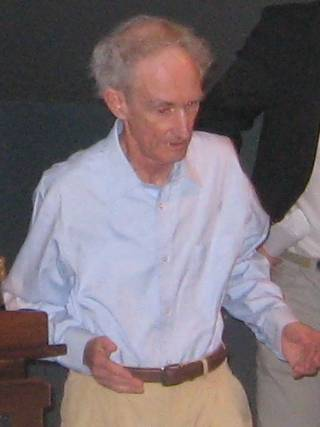
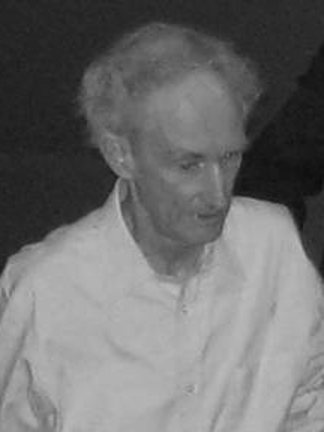
Tighter black-and-white photo of May; keep photo-left layout on narrow screens
Replace the May photo with a head-and-shoulders crop in black and
white to match the Lorenz portrait, shorten its caption, and keep the
caption under the photo with the text to its right at every width on
all three pages.

Claude-Session: https://claude.ai/code/session_01Deuo2bezQBQ6RxutA2KCVW

diff --git a/bifurcation-diagram-explorer.html b/bifurcation-diagram-explorer.html
@@ -86,10 +86,15 @@ td{color:var(--ink-2)}
 .portrait figcaption b{font-weight:700;color:var(--ink)}
 .portrait figcaption span{display:block;margin-top:4px;font-size:11px;color:var(--ink-3)}
 .portrait figcaption a{color:inherit}
-@media (max-width:600px){
-  .intro{grid-template-columns:minmax(0,1fr);gap:16px}
-  .portrait{flex-direction:row;align-items:flex-end;gap:14px}
-  .portrait img{width:120px;flex:none}
+@media (max-width:720px){
+  .intro{grid-template-columns:150px minmax(0,1fr);gap:22px}
+}
+@media (max-width:480px){
+  .intro{display:block}
+  .intro::after{content:"";display:block;clear:both}
+  .portrait{float:left;width:118px;margin:5px 16px 8px 0}
+  .intro-text{display:block}
+  .intro-text > * + *{margin-top:14px}
 }
 @media (max-width:600px){
   .sim{padding:16px}
@@ -119,8 +124,8 @@ td{color:var(--ink-2)}
     <h1>Period doubling and chaos</h1>
     <div class="intro">
       <figure class="portrait">
-        <img src="img/robert-may.jpg" width="320" height="427" alt="Robert May speaking at a public lecture, in a light blue shirt">
-        <figcaption><b>Robert M. May</b> (1936–2020), theoretical ecologist, at a public lecture at Harvard in 2009.<span>Photo: <a href="https://commons.wikimedia.org/wiki/File:BobMayHarvard_(cropped2).jpg">NBeale</a>, <a href="https://creativecommons.org/licenses/by-sa/3.0/">CC BY-SA 3.0</a>, via Wikimedia Commons. Resized.</span></figcaption>
+        <img src="img/robert-may.jpg" width="324" height="432" alt="Black-and-white photo of Robert May in an open-collar shirt">
+        <figcaption><b>Robert M. May</b> (1936–2020), theoretical ecologist.<span>Photo: <a href="https://commons.wikimedia.org/wiki/File:BobMayHarvard_(cropped2).jpg">NBeale</a>, <a href="https://creativecommons.org/licenses/by-sa/3.0/">CC BY-SA 3.0</a>, via Wikimedia Commons. Cropped and converted to black and white.</span></figcaption>
       </figure>
       <div class="intro-text">
         <p class="lede">Robert May's 1976 paper in Nature, “Simple mathematical models with very complicated dynamics”, followed one simple population rule as a single number, r, is turned up. The population first settles, then alternates between two values, then four, then eight, and finally never repeats at all.</p>

diff --git a/logistic-map-explorer.html b/logistic-map-explorer.html
@@ -86,10 +86,15 @@ td{color:var(--ink-2)}
 .portrait figcaption b{font-weight:700;color:var(--ink)}
 .portrait figcaption span{display:block;margin-top:4px;font-size:11px;color:var(--ink-3)}
 .portrait figcaption a{color:inherit}
-@media (max-width:600px){
-  .intro{grid-template-columns:minmax(0,1fr);gap:16px}
-  .portrait{flex-direction:row;align-items:flex-end;gap:14px}
-  .portrait img{width:120px;flex:none}
+@media (max-width:720px){
+  .intro{grid-template-columns:150px minmax(0,1fr);gap:22px}
+}
+@media (max-width:480px){
+  .intro{display:block}
+  .intro::after{content:"";display:block;clear:both}
+  .portrait{float:left;width:118px;margin:5px 16px 8px 0}
+  .intro-text{display:block}
+  .intro-text > * + *{margin-top:14px}
 }
 @media (max-width:600px){
   .sim{padding:16px}
@@ -119,8 +124,8 @@ td{color:var(--ink-2)}
     <h1>The logistic map</h1>
     <div class="intro">
       <figure class="portrait">
-        <img src="img/robert-may.jpg" width="320" height="427" alt="Robert May speaking at a public lecture, in a light blue shirt">
-        <figcaption><b>Robert M. May</b> (1936–2020), theoretical ecologist, at a public lecture at Harvard in 2009.<span>Photo: <a href="https://commons.wikimedia.org/wiki/File:BobMayHarvard_(cropped2).jpg">NBeale</a>, <a href="https://creativecommons.org/licenses/by-sa/3.0/">CC BY-SA 3.0</a>, via Wikimedia Commons. Resized.</span></figcaption>
+        <img src="img/robert-may.jpg" width="324" height="432" alt="Black-and-white photo of Robert May in an open-collar shirt">
+        <figcaption><b>Robert M. May</b> (1936–2020), theoretical ecologist.<span>Photo: <a href="https://commons.wikimedia.org/wiki/File:BobMayHarvard_(cropped2).jpg">NBeale</a>, <a href="https://creativecommons.org/licenses/by-sa/3.0/">CC BY-SA 3.0</a>, via Wikimedia Commons. Cropped and converted to black and white.</span></figcaption>
       </figure>
       <div class="intro-text">
         <p class="lede">In 1976 the ecologist Robert May showed that one of the simplest population models you can write down is capable of wildly complicated behaviour. The rule takes this generation's population and returns the next one. Nothing in it is random, yet for some settings the result looks like noise.</p>

diff --git a/lorenz-twin-trajectories.html b/lorenz-twin-trajectories.html
@@ -85,10 +85,15 @@ td{color:var(--ink-2)}
 .portrait figcaption{font-size:13px;line-height:1.45;color:var(--ink-2)}
 .portrait figcaption b{font-weight:700;color:var(--ink)}
 .portrait figcaption span{display:block;margin-top:4px;font-size:11px;color:var(--ink-3)}
-@media (max-width:600px){
-  .intro{grid-template-columns:minmax(0,1fr);gap:16px}
-  .portrait{flex-direction:row;align-items:flex-end;gap:14px}
-  .portrait img{width:120px;flex:none}
+@media (max-width:720px){
+  .intro{grid-template-columns:150px minmax(0,1fr);gap:22px}
+}
+@media (max-width:480px){
+  .intro{display:block}
+  .intro::after{content:"";display:block;clear:both}
+  .portrait{float:left;width:118px;margin:5px 16px 8px 0}
+  .intro-text{display:block}
+  .intro-text > * + *{margin-top:14px}
 }
 @media (max-width:600px){
   .sim{padding:16px}

diff --git a/README.md b/README.md
@@ -23,4 +23,4 @@ The code in this repository was generated with [Claude](https://claude.ai) (Anth
 
 Portrait of Edward Lorenz: American Geophysical Union (AGU), courtesy of AIP Emilio Segrè Visual Archives, via [Wikimedia Commons](https://commons.wikimedia.org/wiki/File:EdwardLorenz.jpg).
 
-Photo of Robert May: NBeale, [CC BY-SA 3.0](https://creativecommons.org/licenses/by-sa/3.0/), via [Wikimedia Commons](https://commons.wikimedia.org/wiki/File:BobMayHarvard_(cropped2).jpg). Resized.
+Photo of Robert May: NBeale, [CC BY-SA 3.0](https://creativecommons.org/licenses/by-sa/3.0/), via [Wikimedia Commons](https://commons.wikimedia.org/wiki/File:BobMayHarvard_(cropped2).jpg). Cropped and converted to black and white; this version is shared under the same licence.
